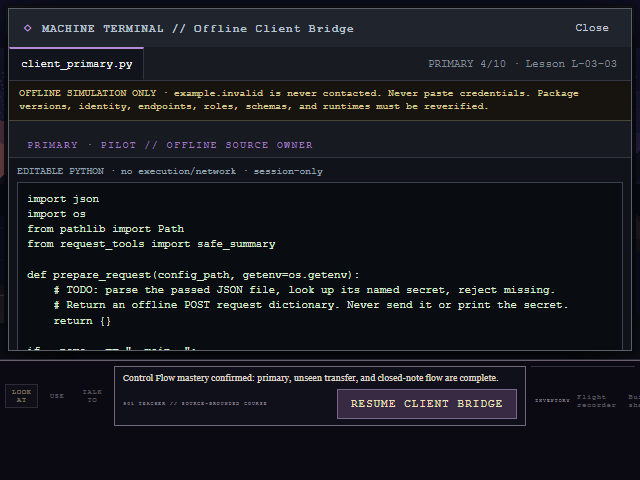
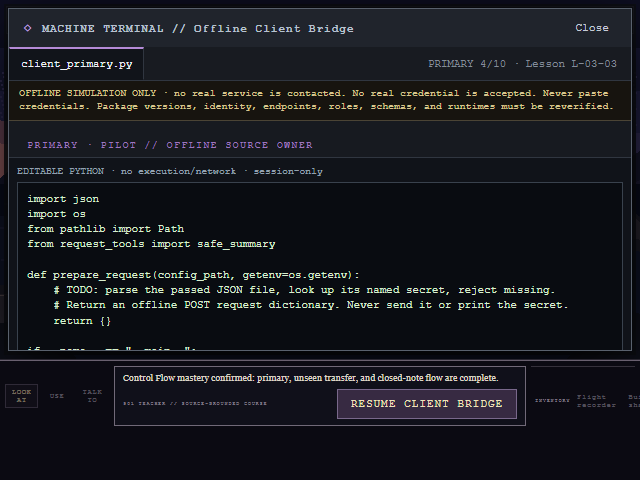
Round 12 step 5 Exercise Agent checkpoint

Changed region(s): [[0.2812, 0.1875, 0.9375, 0.25], [0.0312, 0.2188, 0.2812, 0.25]]

diff --git a/horizon-archive-game/src/App.jsx b/horizon-archive-game/src/App.jsx
@@ -118,12 +118,14 @@ import {
   clientBridgeChecks,
   clientBridgeExercise,
   clientBridgeExplanationDimensions,
-  clientBridgeRemediation,
   clientBridgeRetrieval,
   clientBridgeStarters,
   evaluateClientBridgeExplanation,
   evaluateClientBridgeRetrieval,
   evaluateClientBridgeSource,
+  getClientBridgeExplanationFeedback,
+  getClientBridgeFeedback,
+  getClientBridgeRetrievalFeedback,
   getClientBridgeRetrievalOptions,
   sanitizeClientBridgeEvidence,
   updateClientBridgeEvidence,
@@ -356,6 +358,7 @@ export function App() {
   const continueButtonRef = useRef(null);
   const focusContinueAfterStructuredRef = useRef(false);
   const focusContinueAfterControlRef = useRef(false);
+  const focusContinueAfterClientRef = useRef(false);
 
   function setDialogue(text, owner = "pilot") {
     setDialogueText(text);
@@ -430,6 +433,12 @@ export function App() {
     continueButtonRef.current?.focus({ preventScroll: true });
   }, [terminalOpen, pendingAdvance, controlFlowEvidence?.masteryStatus]);
 
+  useLayoutEffect(() => {
+    if (!focusContinueAfterClientRef.current || terminalOpen || !pendingAdvance || clientBridgeEvidence?.masteryStatus !== "mastered") return;
+    focusContinueAfterClientRef.current = false;
+    continueButtonRef.current?.focus({ preventScroll: true });
+  }, [terminalOpen, pendingAdvance, clientBridgeEvidence?.masteryStatus]);
+
   function beginNewGame() {
     localStorage.removeItem(SAVE_KEY);
     setSceneIndex(0);
@@ -492,6 +501,7 @@ export function App() {
     if (saved.controlFlowEvidence?.masteryStatus === "mastered") focusContinueAfterControlRef.current = true;
     setControlFlowEvidence(saved.controlFlowEvidence);
     setControlFlowSession(null);
+    if (saved.clientBridgeEvidence?.masteryStatus === "mastered") focusContinueAfterClientRef.current = true;
     setClientBridgeEvidence(saved.clientBridgeEvidence);
     setClientBridgeSession(null);
     setResponsibleAIEvidence(saved.responsibleAIEvidence);
@@ -1129,7 +1139,7 @@ export function App() {
   function checkClientBridgeRetrieval(event) { event.preventDefault(); const result = evaluateClientBridgeRetrieval(clientBridgeSession.retrievalAnswers); setClientBridgeSession({ ...clientBridgeSession, retrievalResult: result }); setClientBridgeEvidence((previous) => updateClientBridgeEvidence(previous, { form: "retrieval", correctness: result.correctness, incrementAttempt: true, masteryStatus: result.passed ? "retrieval_complete" : "transfer_complete" })); }
   function advanceClientBridgeExplanation() { if (!clientBridgeSession.retrievalResult?.passed) return; setClientBridgeSession({ ...clientBridgeSession, form: "explanation", phase: "explanation", retrievalResult: null }); setClientBridgeEvidence((previous) => updateClientBridgeEvidence(previous, { form: "explanation", masteryStatus: "retrieval_complete" })); }
   function checkClientBridgeExplanation(event) { event.preventDefault(); const result = evaluateClientBridgeExplanation(clientBridgeSession.explanationResponse); setClientBridgeSession({ ...clientBridgeSession, explanationResult: result }); setClientBridgeEvidence((previous) => updateClientBridgeEvidence(previous, { form: "explanation", correctness: result.correctness, incrementAttempt: true, masteryStatus: "retrieval_complete" })); }
-  function acknowledgeClientBridgeMastery() { if (!clientBridgeSession?.explanationResult?.passed || !clientBridgeSession.ownershipConfirmed || !clientBridgeEvidence?.confidence) return; focusContinueAfterControlRef.current = true; setClientBridgeEvidence((previous) => updateClientBridgeEvidence(previous, { form: "explanation", masteryStatus: "mastered", clearMisconceptionTags: true })); setClientBridgeSession(null); setTerminalOpen(false); setRuinsTerminalKind(null); setDialogue("Client Bridge mastery confirmed: both offline forms, retrieval, and closed-note layers are complete.", "teacher"); }
+  function acknowledgeClientBridgeMastery() { if (!clientBridgeSession?.explanationResult?.passed || !clientBridgeSession.ownershipConfirmed || !clientBridgeEvidence?.confidence) return; focusContinueAfterClientRef.current = true; setClientBridgeEvidence((previous) => updateClientBridgeEvidence(previous, { form: "explanation", masteryStatus: "mastered", clearMisconceptionTags: true })); setClientBridgeSession(null); setTerminalOpen(false); setRuinsTerminalKind(null); setDialogue("Client Bridge mastery confirmed: both offline forms, retrieval, and closed-note layers are complete.", "teacher"); }
 
   function validateEvidenceOutput(event) {
     event.preventDefault();
@@ -1952,15 +1962,15 @@ export function App() {
         )}
         {terminalOpen && scene.id === "ruins" && ruinsTerminalKind === "client-bridge" && clientBridgeSession && (
           <TerminalShell exerciseId={clientBridgeExercise.exercise_id} title="Offline Client Bridge" filename={clientBridgeSession.phase === "code" ? `client_${clientBridgeSession.form}.py` : `${clientBridgeSession.phase}.md`} lessonId={clientBridgeExercise.lesson_id} statusText={clientBridgeSession.phase === "code" ? `${clientBridgeSession.form.toUpperCase()} ${clientBridgeSession.result?.score ?? 0}/10` : clientBridgeSession.phase.toUpperCase()} closeLabel="Exit Client Bridge" restoreFocusTo={terminalTriggerRef.current} onClose={exitClientBridge}>
-            <section className="structured-packet-workspace client-bridge-workspace"><p className="model-choice-boundary">OFFLINE SIMULATION ONLY · example.invalid is never contacted. Never paste credentials. Package versions, identity, endpoints, roles, schemas, and runtimes must be reverified.</p>
+            <section className="structured-packet-workspace client-bridge-workspace"><p id="client-bridge-offline-warning" className="model-choice-boundary" role="note">OFFLINE SIMULATION ONLY · no real service is contacted. No real credential is accepted. Never paste credentials. Package versions, identity, endpoints, roles, schemas, and runtimes must be reverified.</p>
               {clientBridgeSession.phase === "explanation" ? (
-                <form className="structured-packet-explanation" onSubmit={checkClientBridgeExplanation}><header><p className="pane-label">PILOT // CLOSED-NOTE EXPLANATION OWNER</p><h2>Explain module → file → secret → request → response</h2><p>No source, config, secret, or answer choices are shown. Your words remain session-only.</p></header><div className="structured-explanation-fields client-bridge-explanation">{clientBridgeExplanationDimensions.map((dimension) => { const fieldResult = clientBridgeSession.explanationResult?.correctness[dimension]; const id = `bridge-explanation-${dimension}-feedback`; return <label key={dimension}><span>{dimension}</span><input aria-label={`Closed-note bridge ${dimension}`} aria-invalid={clientBridgeSession.explanationResult ? !fieldResult : undefined} aria-describedby={clientBridgeSession.explanationResult ? id : undefined} autoComplete="off" value={clientBridgeSession.explanationResponse[dimension]} onChange={(event) => setClientBridgeSession({ ...clientBridgeSession, explanationResponse: { ...clientBridgeSession.explanationResponse, [dimension]: event.target.value }, explanationResult: null, ownershipConfirmed: false })} />{clientBridgeSession.explanationResult && <small id={id}>{fieldResult ? "SYSTEM // Layer confirmed." : `901 TEACHER // Rebuild the ${dimension} boundary without exposing data.`}</small>}</label>; })}</div><section className="terminal-console structured-packet-output"><div className="console-heading-row"><strong>SYSTEM // CLOSED-NOTE VALIDATOR</strong><button className="run-action" type="submit" disabled={clientBridgeExplanationDimensions.some((key) => !clientBridgeSession.explanationResponse[key])}>Check bridge explanation</button></div><div className={clientBridgeSession.explanationResult ? "console-feedback active" : "console-feedback"} role="status" aria-live="polite">{clientBridgeSession.explanationResult ? `${clientBridgeSession.explanationResult.score}/5 · ${clientBridgeSession.explanationResult.passed ? "Complete offline bridge confirmed." : "901 TEACHER // Keep imported code, parsed file, injected secret, request plan, and later response separate."}` : "Awaiting five closed-note layers."}</div>{clientBridgeSession.explanationResult?.passed && <><label className="ownership-confirmation"><input type="checkbox" checked={clientBridgeSession.ownershipConfirmed} onChange={(event) => setClientBridgeSession({ ...clientBridgeSession, ownershipConfirmed: event.target.checked })} />I produced this bridge explanation myself without notes.</label><fieldset className="confidence-group"><legend>Confidence after all gates</legend>{["low", "medium", "high"].map((value) => <label key={value}><input type="radio" name="bridge-confidence" checked={clientBridgeEvidence?.confidence === value} onChange={() => setClientBridgeEvidence((previous) => updateClientBridgeEvidence(previous, { confidence: value }))} />{value}</label>)}</fieldset><button className="confirm-action" type="button" disabled={!clientBridgeSession.ownershipConfirmed || !clientBridgeEvidence?.confidence} onClick={acknowledgeClientBridgeMastery}>Acknowledge strict mastery</button></>}</section></form>
+                <form className="structured-packet-explanation" onSubmit={checkClientBridgeExplanation}><header><p className="pane-label">PILOT // CLOSED-NOTE EXPLANATION OWNER</p><h2>Explain module → file → secret → request → response</h2><p>No source, config, secret, or answer choices are shown. Your words remain session-only.</p></header><div className="structured-explanation-fields client-bridge-explanation">{clientBridgeExplanationDimensions.map((dimension) => { const fieldResult = clientBridgeSession.explanationResult?.correctness[dimension]; const id = `bridge-explanation-${dimension}-feedback`; return <label key={dimension}><span>{dimension}</span><input aria-label={`Closed-note bridge ${dimension}`} aria-invalid={clientBridgeSession.explanationResult ? !fieldResult : undefined} aria-describedby={clientBridgeSession.explanationResult ? id : undefined} autoComplete="off" value={clientBridgeSession.explanationResponse[dimension]} onChange={(event) => setClientBridgeSession({ ...clientBridgeSession, explanationResponse: { ...clientBridgeSession.explanationResponse, [dimension]: event.target.value }, explanationResult: null, ownershipConfirmed: false })} />{clientBridgeSession.explanationResult && <small id={id}>{fieldResult ? "SYSTEM // Layer confirmed." : `901 TEACHER // Rebuild the ${dimension} boundary without exposing data.`}</small>}</label>; })}</div><section className="terminal-console structured-packet-output"><div className="console-heading-row"><strong>SYSTEM // CLOSED-NOTE VALIDATOR</strong><button className="run-action" type="submit" disabled={clientBridgeExplanationDimensions.some((key) => !clientBridgeSession.explanationResponse[key])}>Check bridge explanation</button></div><div className={clientBridgeSession.explanationResult ? "console-feedback active" : "console-feedback"} role="status" aria-live="polite">{getClientBridgeExplanationFeedback(clientBridgeSession.explanationResult).systemScore}</div>{getClientBridgeExplanationFeedback(clientBridgeSession.explanationResult).teacherRemediation && <p className="teacher-remediation"><strong>901 TEACHER // FIVE-LAYER REMEDIATION</strong><span>{getClientBridgeExplanationFeedback(clientBridgeSession.explanationResult).teacherRemediation}</span></p>}{clientBridgeSession.explanationResult?.passed && <><label className="ownership-confirmation"><input type="checkbox" checked={clientBridgeSession.ownershipConfirmed} onChange={(event) => setClientBridgeSession({ ...clientBridgeSession, ownershipConfirmed: event.target.checked })} />I produced this bridge explanation myself without notes.</label><fieldset className="confidence-group"><legend>Confidence after all gates</legend>{["low", "medium", "high"].map((value) => <label key={value}><input type="radio" name="bridge-confidence" checked={clientBridgeEvidence?.confidence === value} onChange={() => setClientBridgeEvidence((previous) => updateClientBridgeEvidence(previous, { confidence: value }))} />{value}</label>)}</fieldset><button className="confirm-action" type="button" disabled={!clientBridgeSession.ownershipConfirmed || !clientBridgeEvidence?.confidence} onClick={acknowledgeClientBridgeMastery}>Acknowledge strict mastery</button></>}</section></form>
               ) : clientBridgeSession.phase === "retrieval" ? (
-                <form className="structured-packet-explanation bridge-retrieval" onSubmit={checkClientBridgeRetrieval}><header><p className="pane-label">901 TEACHER // RETRIEVAL 4/4</p><h2>Separate imports, installation, secrets, and HTTP parts</h2></header>{clientBridgeRetrieval.map((item) => <fieldset key={item.id}><legend>{item.id} · {item.prompt}</legend>{getClientBridgeRetrievalOptions(item.id).map((option) => <label key={option}><input type="radio" name={`bridge-${item.id}`} checked={clientBridgeSession.retrievalAnswers[item.id] === option} onChange={() => setClientBridgeSession({ ...clientBridgeSession, retrievalAnswers: { ...clientBridgeSession.retrievalAnswers, [item.id]: option }, retrievalResult: null })} />{formatChoice(option)}</label>)}{clientBridgeSession.retrievalResult && <small>{clientBridgeSession.retrievalResult.correctness[item.id] ? "SYSTEM // Correct." : "901 TEACHER // Revisit this layer distinction."}</small>}</fieldset>)}<section className="terminal-console structured-packet-output"><div className="console-heading-row"><strong>SYSTEM // RETRIEVAL VALIDATOR</strong><button className="run-action" type="submit" disabled={clientBridgeRetrieval.some((item) => !clientBridgeSession.retrievalAnswers[item.id])}>Check retrieval</button></div><div className={clientBridgeSession.retrievalResult ? "console-feedback active" : "console-feedback"} role="status" aria-live="polite">{clientBridgeSession.retrievalResult ? `${clientBridgeSession.retrievalResult.score}/4 · ${clientBridgeSession.retrievalResult.passed ? "RETRIEVAL PASS" : "901 TEACHER // Correct every layer before advancing."}` : "All four distinctions are required."}</div>{clientBridgeSession.retrievalResult?.passed && <button className="confirm-action" type="button" onClick={advanceClientBridgeExplanation}>Begin closed-note explanation</button>}</section></form>
+                <form className="structured-packet-explanation bridge-retrieval" onSubmit={checkClientBridgeRetrieval}><header><p className="pane-label">901 TEACHER // RETRIEVAL 4/4</p><h2>Separate imports, installation, secrets, and HTTP parts</h2></header>{clientBridgeRetrieval.map((item) => <fieldset key={item.id}><legend>{item.id} · {item.prompt}</legend>{getClientBridgeRetrievalOptions(item.id).map((option) => <label key={option}><input type="radio" name={`bridge-${item.id}`} checked={clientBridgeSession.retrievalAnswers[item.id] === option} onChange={() => setClientBridgeSession({ ...clientBridgeSession, retrievalAnswers: { ...clientBridgeSession.retrievalAnswers, [item.id]: option }, retrievalResult: null })} />{formatChoice(option)}</label>)}{clientBridgeSession.retrievalResult && <small>{clientBridgeSession.retrievalResult.correctness[item.id] ? "SYSTEM // Correct." : "901 TEACHER // Revisit this layer distinction."}</small>}</fieldset>)}<section className="terminal-console structured-packet-output"><div className="console-heading-row"><strong>SYSTEM // RETRIEVAL VALIDATOR</strong><button className="run-action" type="submit" disabled={clientBridgeRetrieval.some((item) => !clientBridgeSession.retrievalAnswers[item.id])}>Check retrieval</button></div><div className={clientBridgeSession.retrievalResult ? "console-feedback active" : "console-feedback"} role="status" aria-live="polite">{getClientBridgeRetrievalFeedback(clientBridgeSession.retrievalResult).systemScore}</div>{getClientBridgeRetrievalFeedback(clientBridgeSession.retrievalResult).teacherRemediation && <p className="teacher-remediation"><strong>901 TEACHER // RETRIEVAL REMEDIATION</strong><span>{getClientBridgeRetrievalFeedback(clientBridgeSession.retrievalResult).teacherRemediation}</span></p>}{clientBridgeSession.retrievalResult?.passed && <button className="confirm-action" type="button" onClick={advanceClientBridgeExplanation}>Begin closed-note explanation</button>}</section></form>
               ) : clientBridgeSession.complete ? (
                 <section className="workload-summary"><p className="pane-label">901 TEACHER // PRIMARY FORM COMPLETE</p><h2>10 / 10 checks</h2><p>Imports, file/config, injected secret, missing-secret rejection, offline request, hidden reuse, and redaction pass.</p><fieldset className="confidence-group"><legend>Confidence after primary form</legend>{["low", "medium", "high"].map((value) => <label key={value}><input type="radio" name="bridge-primary-confidence" checked={clientBridgeEvidence?.confidence === value} onChange={() => setClientBridgeEvidence((previous) => updateClientBridgeEvidence(previous, { confidence: value }))} />{value}</label>)}</fieldset><button className="confirm-action" type="button" disabled={!clientBridgeEvidence?.confidence} onClick={acknowledgeClientBridgePrimary}>Acknowledge primary form</button></section>
               ) : (
-                <form className="structured-packet-form" onSubmit={runClientBridge}><aside className="task-pane"><p className="pane-label">{clientBridgeSession.form === "transfer" ? "FRESH TRANSFER" : "PRIMARY"} · PILOT // OFFLINE SOURCE OWNER</p><h2>Trace five safe layers</h2><ol className="data-path-trace"><li>Import module from active environment.</li><li>Read passed file path; parse JSON text.</li><li>Look up named environment secret; reject missing.</li><li>Build method/URL/headers/body dictionary.</li><li>Response status/body would arrive later.</li></ol><p>Never send, print authorization, hardcode config, or paste a secret.</p></aside><div className="structured-editor-stack"><label htmlFor="client-bridge-source">EDITABLE PYTHON · no execution/network · session-only</label><textarea id="client-bridge-source" aria-label="Client Bridge Python source" aria-invalid={clientBridgeSession.result ? !clientBridgeSession.result.passed : undefined} aria-describedby={clientBridgeSession.result ? "bridge-status bridge-check-list" : undefined} value={clientBridgeSession.source} onChange={(event) => setClientBridgeSession({ ...clientBridgeSession, source: event.target.value, result: null })} autoCapitalize="off" autoCorrect="off" spellCheck="false" /><section className="terminal-console structured-packet-output"><div className="console-heading-row"><strong>SYSTEM // STRICT 10-CHECK OFFLINE VALIDATOR</strong><button className="run-action" type="submit">Validate bridge</button></div><div id="bridge-status" className={clientBridgeSession.result ? "console-feedback active" : "console-feedback"} role="status" aria-live="polite">{clientBridgeSession.result ? `${clientBridgeSession.result.score}/10 · ${clientBridgeSession.result.passed ? "FORM PASS · hidden config, missing secret, offline, redacted." : `901 TEACHER // ${clientBridgeRemediation(clientBridgeSession.result, clientBridgeSession.hintLevel)}`}` : "Static validation only; no code or network is executed."}</div>{clientBridgeSession.result && <ul id="bridge-check-list" className="structured-checks" aria-label="Client Bridge checks">{clientBridgeChecks.map((check) => <li key={check} data-check-passed={clientBridgeSession.result.checks[check]}>{clientBridgeSession.result.checks[check] ? "PASS" : "REVIEW"} · {check.replaceAll("_", " ")}</li>)}</ul>}{clientBridgeSession.result && !clientBridgeSession.result.passed && <button className="hint-action" type="button" disabled={clientBridgeSession.hintLevel >= 3} onClick={revealClientBridgeHint}>Reveal next safe layer</button>}{clientBridgeSession.result?.passed && <button className="confirm-action" type="button" onClick={advanceClientBridge}>{clientBridgeSession.form === "transfer" ? "Begin retrieval" : "View primary result"}</button>}</section></div></form>
+                <form className="structured-packet-form" onSubmit={runClientBridge}><aside className="task-pane"><p className="pane-label">{clientBridgeSession.form === "transfer" ? "FRESH TRANSFER" : "PRIMARY"} · PILOT // OFFLINE SOURCE OWNER</p><h2>Trace five safe layers</h2><ol className="data-path-trace"><li>Import module from active environment.</li><li>Read passed file path; parse JSON text.</li><li>Look up named environment secret; reject missing.</li><li>Build method/URL/headers/body dictionary.</li><li>Response status/body would arrive later.</li></ol><p>Never send, print authorization, hardcode config, or paste a secret.</p></aside><div className="structured-editor-stack"><label htmlFor="client-bridge-source">EDITABLE PYTHON · no execution/network · session-only</label><textarea id="client-bridge-source" aria-label="Client Bridge Python source" aria-invalid={clientBridgeSession.result ? !clientBridgeSession.result.passed : undefined} aria-describedby={clientBridgeSession.result ? clientBridgeSession.result.passed ? "bridge-status bridge-check-list" : "bridge-status bridge-check-list bridge-remediation" : undefined} value={clientBridgeSession.source} onChange={(event) => setClientBridgeSession({ ...clientBridgeSession, source: event.target.value, result: null })} autoCapitalize="off" autoCorrect="off" spellCheck="false" /><section className="terminal-console structured-packet-output"><div className="console-heading-row"><strong>SYSTEM // STRICT 10-CHECK OFFLINE VALIDATOR</strong><button className="run-action" type="submit">Validate bridge</button></div><div id="bridge-status" className={clientBridgeSession.result ? "console-feedback active" : "console-feedback"} role="status" aria-live="polite">{getClientBridgeFeedback(clientBridgeSession.result, clientBridgeSession.hintLevel).systemScore}</div>{getClientBridgeFeedback(clientBridgeSession.result, clientBridgeSession.hintLevel).teacherRemediation && <p id="bridge-remediation" className="teacher-remediation"><strong>901 TEACHER // OFFLINE AND CREDENTIAL REMEDIATION</strong><span>{getClientBridgeFeedback(clientBridgeSession.result, clientBridgeSession.hintLevel).teacherRemediation}</span></p>}{clientBridgeSession.result && <ul id="bridge-check-list" className="structured-checks" aria-label="Client Bridge checks">{clientBridgeChecks.map((check) => <li key={check} data-check-passed={clientBridgeSession.result.checks[check]}>{clientBridgeSession.result.checks[check] ? "PASS" : "REVIEW"} · {check.replaceAll("_", " ")}</li>)}</ul>}{clientBridgeSession.result && !clientBridgeSession.result.passed && <button className="hint-action" type="button" disabled={clientBridgeSession.hintLevel >= 3} onClick={revealClientBridgeHint}>Reveal next safe layer</button>}{clientBridgeSession.result?.passed && <button className="confirm-action" type="button" onClick={advanceClientBridge}>{clientBridgeSession.form === "transfer" ? "Begin retrieval" : "View primary result"}</button>}</section></div></form>
               )}
             </section>
           </TerminalShell>

diff --git a/horizon-archive-game/test/clientBridgeExercise.test.js b/horizon-archive-game/test/clientBridgeExercise.test.js
@@ -1,7 +1,9 @@
 import test from "node:test"; import assert from "node:assert/strict"; import { readFileSync } from "node:fs";
-import { clientBridgeChecks, evaluateClientBridgeExplanation, evaluateClientBridgeRetrieval, evaluateClientBridgeSource, sanitizeClientBridgeEvidence, updateClientBridgeEvidence } from "../src/clientBridgeExercise.js";
+import { clientBridgeChecks, evaluateClientBridgeExplanation, evaluateClientBridgeRetrieval, evaluateClientBridgeSource, getClientBridgeExplanationFeedback, getClientBridgeFeedback, getClientBridgeRetrievalFeedback, sanitizeClientBridgeEvidence, updateClientBridgeEvidence } from "../src/clientBridgeExercise.js";
 const primary = readFileSync(new URL("../../curriculum/lessons/L-03-03/reference_primary.py", import.meta.url), "utf8"); const transfer = readFileSync(new URL("../../curriculum/lessons/L-03-03/reference_transfer.py", import.meta.url), "utf8"); const retrieval = JSON.parse(readFileSync(new URL("../../curriculum/lessons/L-03-03/reference_retrieval_answers.json", import.meta.url), "utf8"));
 test("packaged references pass 10/10 and retrieval passes 4/4", () => { assert.equal(evaluateClientBridgeSource(primary, "primary").score, 10); assert.equal(evaluateClientBridgeSource(transfer, "transfer").score, 10); assert.equal(evaluateClientBridgeRetrieval(retrieval).score, 4); });
 test("networking, hardcoded config, missing secret, and unsafe output fail", () => { assert.equal(evaluateClientBridgeSource(`${primary}\nimport requests\nrequests.post("x")`, "primary").checks.offline_no_network, false); assert.equal(evaluateClientBridgeSource(primary.replace("Path(config_path)", 'Path("primary_config.json")'), "primary").checks.file_json_flow, false); assert.equal(evaluateClientBridgeSource(primary.replace("raise ValueError", "pass #"), "primary").checks.missing_secret_rejected, false); assert.equal(evaluateClientBridgeSource(primary.replace("safe_summary(request)", "request"), "primary").checks.secret_redacted, false); });
+test("System score stays neutral while Teacher owns offline and credential remediation", () => { const feedback = getClientBridgeFeedback(evaluateClientBridgeSource(`${primary}\nimport requests\nrequests.post("x")`, "primary"), 2); assert.match(feedback.systemScore, /^9\/10 · FORM NOT YET COMPLETE/); assert.doesNotMatch(feedback.systemScore, /network|secret|credential|teacher/i); assert.match(feedback.teacherRemediation, /offline_no_network|secret|network/i); });
+test("retrieval and explanation scoring stay separate from Teacher guidance", () => { const retrievalFeedback = getClientBridgeRetrievalFeedback(evaluateClientBridgeRetrieval({})); assert.equal(retrievalFeedback.systemScore, "0/4 · RETRIEVAL NOT YET COMPLETE."); assert.match(retrievalFeedback.teacherRemediation, /module.*secret.*request/i); const explanationFeedback = getClientBridgeExplanationFeedback(evaluateClientBridgeExplanation({})); assert.equal(explanationFeedback.systemScore, "0/5 · EXPLANATION NOT YET COMPLETE."); assert.match(explanationFeedback.teacherRemediation, /imported code.*secret.*response/i); });
 test("closed-note explanation requires all five layers", () => { assert.equal(evaluateClientBridgeExplanation({ module: "import module from active environment", file: "read file text then parse json config", secret: "lookup named environment secret reject missing", request: "build offline method url headers body request", response: "wrong" }).score, 4); });
 test("strict mastery and sanitizer require all evidence without private content", () => { const pass = Object.fromEntries(clientBridgeChecks.map((key) => [key, true])); let e = updateClientBridgeEvidence(null, { form: "primary", correctness: pass }); e = updateClientBridgeEvidence(e, { form: "transfer", correctness: pass }); e = updateClientBridgeEvidence(e, { form: "retrieval", correctness: { R01: true, R02: true, R03: true, R04: true } }); e = updateClientBridgeEvidence(e, { form: "explanation", correctness: { module: true, file: true, secret: true, request: true, response: true }, masteryStatus: "mastered" }); assert.equal(e.masteryStatus, "mastered"); const safe = sanitizeClientBridgeEvidence({ ...e, learnerSource: primary, configBody: "private", secretValue: "private", freeFormExplanation: "private" }); for (const key of ["learnerSource", "configBody", "secretValue", "freeFormExplanation"]) assert.equal(key in safe, false); });

diff --git a/horizon-archive-game/src/clientBridgeExercise.js b/horizon-archive-game/src/clientBridgeExercise.js
@@ -69,6 +69,18 @@ export function evaluateClientBridgeExplanation(response) {
   const correctness = Object.fromEntries(clientBridgeExplanationDimensions.map((key) => [key, normalize(response[key]) === expected[key]])); return { correctness, score: Object.values(correctness).filter(Boolean).length, passed: Object.values(correctness).every(Boolean) };
 }
 export function clientBridgeRemediation(result, level) { const failed = result.failedChecks?.[0] || "bridge"; if (level <= 1) return `${failed}: identify the failed layer—module, file, secret, request, response, or safe output.`; if (level === 2) return `${failed}: trace the path to parsed config and keep the secret-variable name separate from its injected value.`; return `${failed}: label method, URL, headers, body, later response, and retry the hidden configuration without networking.`; }
+export function getClientBridgeFeedback(result, level) {
+  if (!result) return { systemScore: "Static validation only; no code or network is executed.", teacherRemediation: null };
+  return { systemScore: `${result.score}/10 · ${result.passed ? "FORM PASS · all ten offline checks confirmed." : "FORM NOT YET COMPLETE."}`, teacherRemediation: result.passed ? null : clientBridgeRemediation(result, level) };
+}
+export function getClientBridgeRetrievalFeedback(result) {
+  if (!result) return { systemScore: "Awaiting all four retrieval distinctions.", teacherRemediation: null };
+  return { systemScore: `${result.score}/4 · ${result.passed ? "RETRIEVAL PASS" : "RETRIEVAL NOT YET COMPLETE."}`, teacherRemediation: result.passed ? null : "Correct every module, installation, secret, and request/response distinction before advancing." };
+}
+export function getClientBridgeExplanationFeedback(result) {
+  if (!result) return { systemScore: "Awaiting the learner's five-layer explanation.", teacherRemediation: null };
+  return { systemScore: `${result.score}/5 · ${result.passed ? "EXPLANATION PASS · all five layers confirmed." : "EXPLANATION NOT YET COMPLETE."}`, teacherRemediation: result.passed ? null : "Keep imported code, parsed file, injected secret, offline request plan, and later response separate." };
+}
 function complete(c, form) { return clientBridgeChecks.every((key) => c[form]?.[key] === true); }
 export function sanitizeClientBridgeEvidence(value) {
   if (!value || typeof value !== "object" || value.exerciseId !== exerciseAsset.exercise_id) return null; const checkCorrectness = {};

diff --git a/Exercise Development/WORK_LOG.md b/Exercise Development/WORK_LOG.md
@@ -1,5 +1,18 @@
 # Exercise Agent Work Log
 
+## 2026-07-12 — EX-L0303 Client Bridge continuity closure
+
+- **Outcome:** Closed the Client Bridge ownership, warning, and focus handoff without starting L-04-01 or L-04-02 gameplay. `SYSTEM` score lines for code, retrieval, and closed-note modes now contain only deterministic totals and pass/not-complete state; all safe-layer, credential, retrieval, and five-layer coaching renders in separate explicitly labeled `901 TEACHER` remediation regions.
+- **Safety boundary:** A semantic persistent note now appears outside the phase switch in primary, transfer, retrieval, and closed-note modes: `OFFLINE SIMULATION ONLY`, no real service is contacted, no real credential is accepted, and credentials must never be pasted. Existing no-network evaluation, secret redaction, and volatile-runtime warnings remain intact.
+- **Ownership:** Closed-note module → file → secret → request → response prose remains explicitly Pilot-owned and session-only. Primary and strict-mastery completion messages remain explicitly Teacher-owned; confirmed fields remain neutral System feedback.
+- **Focus:** A dedicated Client Bridge focus flag moves focus to Continue after strict mastery acknowledgement and after sanitized mastered-save reload when Continue is the next meaningful action, rather than relying on the earlier Control Flow flag.
+- **Preserved contracts:** Primary and transfer 10/10, retrieval 4/4, five-layer closed-note mastery, evidence sanitization/privacy, redaction/no-networking, close/reopen and reload behavior, canonical/narrow layout, and three pairwise-distinct captures remain intact.
+- **Files changed:** `horizon-archive-game/src/App.jsx`, `horizon-archive-game/src/clientBridgeExercise.js`, `horizon-archive-game/test/clientBridgeExercise.test.js`, `playtest/e2e-playthrough.mjs`, refreshed Client Bridge captures, and this log.
+- **Validation:** 65/65 unit tests pass; production build passes; L-03-03 self-test, primary 10/10, transfer 10/10, and retrieval 4/4 references pass; full title-to-credits E2E passes with zero runtime errors and verifies warning persistence in all modes, ownership separation, field associations, direct/reload Continue focus, privacy, and distinct captures; `git diff --check` passes.
+- **Manifest/E2E register:** Existing `HA-PY-CLIENT-BRIDGE` contract remains correct; the E2E register now includes it plus warning, ownership, and focus flags.
+- **Next action:** Player Agent should independently test warning announcement, screen-reader order from System score to Teacher remediation, credential redaction, and Continue focus after direct and restored mastery. Do not enter L-04-01/L-04-02 before that audit.
+- **Risks:** The longer persistent warning and Teacher remediation consume additional vertical space in the canonical/narrow Terminal; both remain inside established scrollable regions and need independent narrow-screen reading-order review.
+
 ## 2026-07-12 — L-03-03 Offline Client Bridge complete Terminal gate
 
 - **Outcome:** Added `EX-L0303-CLIENT-BRIDGE` as the mandatory Terminal after Control Flow. Mastery requires packaged primary 10/10, fresh transfer 10/10, retrieval 4/4, and a five-layer closed-note module → file → secret → request → response explanation. Progression remains blocked until completion; no L-04-01 gameplay was implemented.
